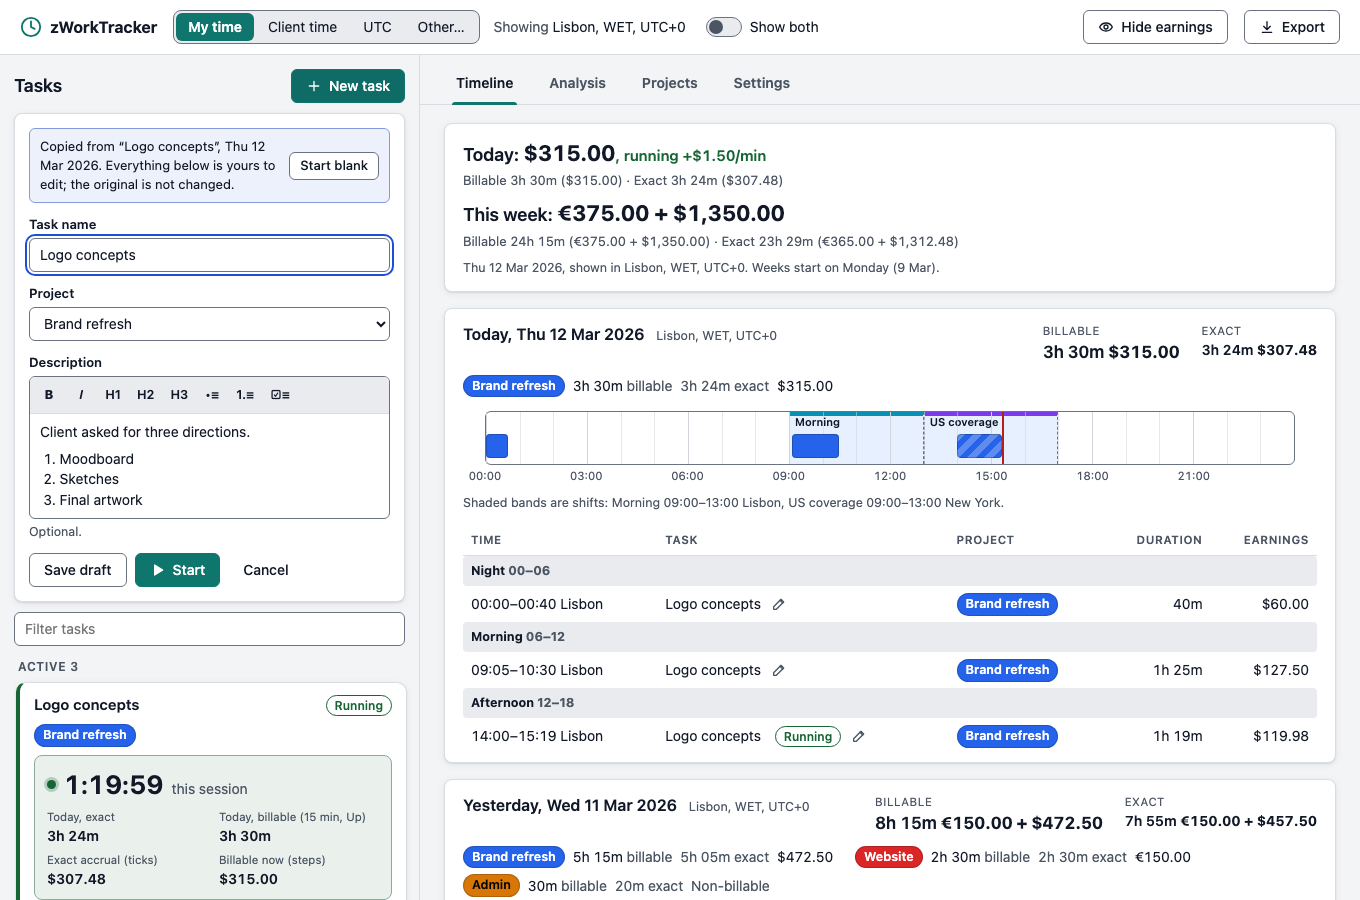
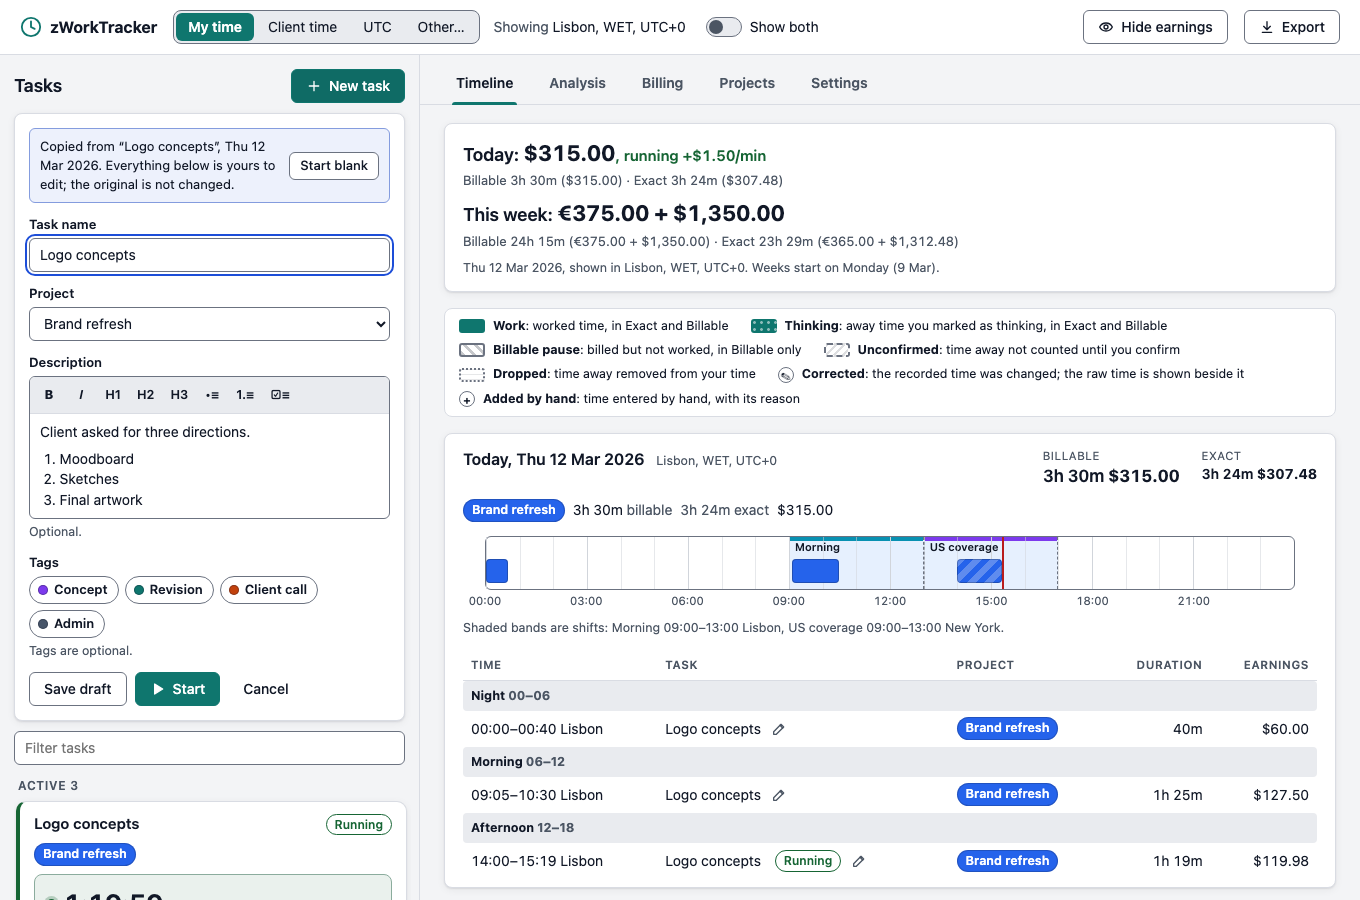
docs: document phase 2, reverse the sleep rule, and extend the native smoke test
Moves shipped items out of the Roadmap and refreshes the screenshots and sample export.
The native smoke test now drives phase 2 commands on the real backend.

diff --git a/src-tauri/crates/z-work-core/src/pdf.rs b/src-tauri/crates/z-work-core/src/pdf.rs
@@ -443,6 +443,9 @@ mod tests {
         assert!(b.starts_with(b"%PDF-"));
         assert!(contains(&b, b"America/New_York"));
         assert!(contains(&b, b"Total time"));
+        if let Ok(path) = std::env::var("ZWT_SAMPLE_PDF") {
+            std::fs::write(path, &b).unwrap();
+        }
     }
 
     #[test]

diff --git a/README.md b/README.md
@@ -6,7 +6,7 @@ A desktop app for Windows 11 that accounts for labor hours by project and task. 
 
 It runs locally. It makes no network calls and sends no telemetry. Data leaves the machine only if you choose a OneDrive or Google Drive folder for sync.
 
-Status: first build. It has been run and tested on macOS, and the Windows installer has been built, but **nothing has been run on real Windows yet**. See [Known limitations](#known-limitations).
+Status: phase 2 build. It has been run and tested on macOS, and the Windows installer has been built, but the only thing to run on Windows so far is a CI run of the test gates: **the app itself has never run on real Windows**, and that CI run predates phase 2. See [Known limitations](#known-limitations).
 
 ![Timeline](docs/images/timeline-light.png)
 
@@ -96,7 +96,20 @@ Only the tray's **Quit** really exits. On a real exit a running segment closes a
 
 If the app crashes, a heartbeat saved about every 30 seconds marks the last moment it was alive. At the next launch the open segment closes at that moment, the task is paused and a notice tells you, including that the next start asks for every field.
 
-If the computer sleeps while a task is running, the sleeping time counts as work, because the segment stays open. Pause before closing the lid.
+**Time away.** While a task runs, the app watches for gaps: the machine slept, the wall clock jumped by more than two minutes between checks, or nobody touched the keyboard or mouse for the idle limit (10 minutes by default; 0 turns idle detection off, but a sleep or clock jump is always noticed). A locked screen is noticed through idle time, so a lock shorter than the limit, or any lock with the limit at 0, isn't seen. When you return, the app asks what to do with the time:
+
+| Answer | Exact | Billable and earnings |
+|---|---|---|
+| No answer yet | Doesn't count | Doesn't count |
+| **Keep** | Counts | Counts |
+| **Drop** | Doesn't count | Doesn't count |
+| **Thinking** | Counts, reported separately | Counts, reported separately |
+
+Raw UTC timestamps stay as they were, whatever you answer. An absence in progress when a segment closes, whether by Pause, Stop, Quit or a crash, is recorded the same way. This replaces the first build's behaviour, where sleeping time counted as work.
+
+![The time-away dialog](docs/images/timeaway-dialog-light.png)
+
+**Reminders.** A notification tells you when a task has run a long time (4 hours by default) or is still running after your shift ended. Both can be turned off, and a reminder can be snoozed. Snoozing doesn't pause anything.
 
 ### Timeline
 
@@ -160,6 +173,58 @@ The default is **15 minutes, rounding up**. Choices are Off (exact), 1, 5, 6, 10
 - Continued tasks round separately, so a chain can round up more than once in a day. See [Tasks and subtasks](#tasks-and-subtasks).
 
 Totals show **Billable (rounded)** and **Exact**. Exact totals are the same in every zone. Billable totals can differ, because days fall differently: a segment crossing midnight in one zone is two rows there and one elsewhere. Pauses stay excluded from Exact. The rounding adjustment metric shows what rounding adds.
+
+### Corrections, manual entries and billable pauses
+
+You can add a manual entry for time the app didn't log, correct a segment's start and end, or void a segment and bring it back. Each asks for a reason where it helps and warns about overlaps. Nothing destroys the original: the logged UTC times stay in the file, the correction sits beside them, and the audit trail lists every change with when, what and why. A running segment can't be corrected, and neither can time on a billing summary until that summary is voided.
+
+A pause can be marked **billable** when you were still working, for example on a call. It counts in Billable and earnings, is rounded once together with that task-day's exact time, and is included in the rounding adjustment, but it never counts in Exact and is reported on its own. Time covered twice bills once: a pause never bills a span a segment or another pause already covers.
+
+![Corrections on a task](docs/images/task-corrections.png)
+
+### Subtask time
+
+A task-list item in a description can be made active. Exactly one is active at a time. Each segment belongs to the subtask active when it started; switching while running closes the segment and opens the next one, so task totals remain the sum of segments. Copying a task keeps subtask text, clears the ticks and carries no time. Removing the active item from the description clears the active subtask.
+
+![Subtasks with their time](docs/images/task-subtasks.png)
+
+### Tags and templates
+
+Tags have a name and a colour, and four starter tags come with the app. A warm start copies them; a cold start requires at least one, while any tag exists. Analysis breaks time down by tag. A template stores a task's name, description, project and tags, and creates an independent draft with unticked subtasks.
+
+### Colours
+
+Projects and tags share a colour picker: a saturation and brightness area, a hue slider, R, G and B fields from 0 to 255 and a hex field, all kept in step, with a live preview. It works by keyboard in every theme, and also offers curated swatches and your recently used colours. Any colour is allowed. Chip text picks black or white for readability, and you get a gentle warning, never a refusal, if a colour is close to another project's or hard to see on the current theme. The backend stores six-digit lowercase hex, such as `#1a2b3c`, and refuses anything else.
+
+![The colour picker](docs/images/color-picker.png)
+
+### Fixed-fee projects and budget alerts
+
+A project bills **hourly** or at a **fixed fee** in EUR or USD. A fixed-fee project earns the fee, not time at a rate, so hourly earnings stay empty, and Analysis shows its effective hourly rate: the fee divided by billable hours. Budgets warn at 80% and 100%, of hours or of the fixed fee, on screen and once per threshold as a system notification. A fee-based budget values time using the project's rate as a target rate, and says so when none is set.
+
+### Billing summaries
+
+**This is for your own guidance. It is not an invoice and not a tax document, and says so on the page and in its exports.**
+
+Pick a project and period to see unbilled closed time per task and day. **Create summary** freezes it into a summary with a reference such as `A-001` and marks that time billed. Tasks then show billed and unbilled time. Copy it or export it as CSV. Voiding a summary puts the time back to unbilled; its number isn't reused.
+
+![The Billing tab](docs/images/billing-light.png)
+
+Each device has its own prefix, which you can edit. Numbers count up per prefix across all devices. Two devices offline at once could still pick the same prefix and reference, so the app warns when it finds a shared prefix or a repeated reference.
+
+The preview tells you about time away you haven't answered yet. It's left out of the summary, and answering after that requires voiding the summary, so answer first. A partly billed task-day rounds again on its unbilled part, so it can round up twice. Time belongs to the day its segment started. A correction made on another device before the summary syncs still applies, while the frozen summary keeps its numbers.
+
+### Timesheet PDF
+
+A local PDF for a period, with or without prices, in the client's zone, with your logo (PNG) if you add one. It's built on this computer by a Rust library with no network access. It uses a built-in Latin font, so characters outside Windows-1252, such as Japanese or Greek, print as `?`. Only the Excel and CSV exports hold those characters as you typed them.
+
+### Quote helper
+
+Enter a job's name and tags to get an estimate from comparable past stopped tasks: a range and the number of tasks behind it. It's labelled as an estimate, and a low sample size is shown.
+
+### Backups
+
+The app writes a dated copy of its data once a day into a `backups` folder beside it, keeping the newest 30 by default; choose 1 to 365. These stay on this computer and are separate from sync. **Restore** in Settings first saves the current data as a safety copy, which retention never deletes, then replaces the data. A running task pauses first, and the next start counts as cold. Restoring the safety copy undoes a restore. This device's settings, such as sync folders, stay as they are. With sync on, newer records in your sync folders merge back in at the next sync, so to go back in time for good, turn sync off first.
 
 ### Earnings and Hide earnings
 
@@ -241,6 +306,8 @@ The full list with formulas is in the app's searchable Metrics glossary (source:
 Definitions worth knowing:
 
 - **A pause** is the gap between two consecutive segments of the same task, or from a task's last segment to its Stop, that begins and ends on the same calendar day in the zone you're viewing. Gaps crossing midnight, such as overnight or weekend breaks, aren't pauses and are excluded from every figure. A pause belongs to the day it began, and a still-paused task's open gap isn't counted. Pauses of different tasks add up, so a day can show more paused time than worked time.
+- **Exact** leaves out time away that's unanswered or dropped, and billable pauses. **Billable** adds billable pauses and rounds once per task-day. The **rounding adjustment** is Billable minus Exact, with billable pauses shown separately. Thinking counts in both, shown separately.
+- **Effective hourly rate** on a fixed-fee project is the fee divided by Billable hours. **Billed** and **unbilled** seconds are the time on and off a live billing summary. Tag analytics count a task's time under each of its tags, so tag totals can add up to more than the total.
 - A band or shift filter hides Billable figures, because rounding works on whole task-days.
 - Client working hours apply Monday to Friday.
 - A forecast is a straight-line projection and needs 7 or more days, 20% of the period elapsed and 2 active days. Budget pace uses the last 28 days.
@@ -254,6 +321,8 @@ Definitions worth knowing:
 | **macOS** | `~/Library/Application Support/com.rustcircle.zworktracker/` |
 | **Main file** | `z-work-data.json`: versioned JSON with timestamps in UTC (`2026-03-08T07:00:00Z`) |
 | **Backup** | `z-work-data.json.bak`: the previous good version |
+| **Dated backups** | `backups/`: one copy a day, plus safety copies made before a restore |
+| **Before a migration** | `z-work-data.v1.json`: the store as it was before an upgrade |
 | **Damaged files** | Kept as `z-work-data.corrupt-<time>.json` |
 
 Saves are atomic: a temporary file, then a rename. If the main file is damaged the app restores from the backup and tells you. If both are damaged it keeps both copies, starts empty and says so. A file from a newer app version is refused and left untouched. Data is never silently wiped.
@@ -336,9 +405,9 @@ Billing and time zone rules exist in both Rust (for exports and the tray) and TS
 
 ### Data model and schema migration
 
-Two versions exist: `version` in the local file and `schemaVersion` in device files, both 1. To change the schema, raise `SCHEMA_VERSION` and add a step to `migrate()` in `persist.rs`. Optional fields need no step, because every synced record defaults missing ones. An old build skips a newer device file and never overwrites it.
+Two versions exist: `version` in the local file and `schemaVersion` in device files, both 2. Opening a version 1 store keeps a copy as `z-work-data.v1.json`, then upgrades it; a test reads a real phase 1 file. To change the schema, raise `SCHEMA_VERSION` and add a step to `migrate()` in `persist.rs`. Optional fields need no step, because every synced record defaults missing ones. An old build skips a newer device file, warns "Update this device" and never overwrites it. Task lists from version 1 get subtask ids derived from the task id and position, so every device derives the same ones without a new edit stamp.
 
-The synced state is a set of records with stable ids, merged by taking the maximum under a total order. Property tests check that the merge is idempotent, commutative and associative.
+The synced state is a set of records with stable ids, merged by taking the maximum under a total order. Property tests check that the merge is idempotent, commutative and associative, for time away, billable pauses, tags, templates, summaries, prefixes and the audit log too. Corrections, time away and billable pauses are overlays on raw segments, and `pieces.rs` turns them into the pieces every report reads. A synced file is untrusted: `validate.rs` refuses out-of-range times, amounts and references before a merge.
 
 ### Security model
 
@@ -429,7 +498,9 @@ None of this has been run yet. Please check on a real Windows 11 PC:
 | "Windows protected your PC" | The installer is unsigned. Choose **More info**, then **Run anyway**. |
 | Blank window or WebView2 message | Run Windows Update, or reinstall the WebView2 Runtime from Microsoft. Your data is safe. |
 | The app seems gone after closing | It's in the tray; check the overflow arrow. Only tray **Quit** exits. |
-| Time kept running overnight | The app was hidden or the PC slept with a task running. Pause first. |
+| Time kept running overnight | The app asks about a sleep or idle time when you return, and it counts nowhere until you answer. Answer **Drop**, or correct the segment. |
+| A summary won't let me answer about time away | That segment is on a billing summary. Void the summary, answer, then create it again. |
+| A PDF shows `?` | The PDF's built-in font covers Latin text only. Use the Excel or CSV export for other scripts. |
 | Sync folder not detected | Use **Choose another folder**. Only common "My Drive" language variants are detected. |
 | A sync folder shows an error | Check the desktop client is running and the drive is connected. Local data and other folders are unaffected. |
 | "Written to folder" but another PC has no data | The desktop client may still be uploading. |
@@ -444,6 +515,7 @@ None of this has been run yet. Please check on a real Windows 11 PC:
 
 **Verified only on macOS or against a mock.**
 
+- Every phase 2 screen is tested against the mock, which reimplements the backend's rules in TypeScript and can drift from them. The native smoke script runs time away, manual entries, corrections, billing, the PDF, tag colours and backup restore against the real backend by calling its commands, without clicking those screens. The real file dialogs and clipboard weren't exercised.
 - Warm copy, cold form, cold Resume and inline editing UI are tested against the mock. The native smoke script checks the backend rules and the tray route against the real backend.
 - Real backend, webview and exit paths were tested on macOS with the native smoke script, which doesn't click the real tray icon. Tray icon appearance is unverified.
 - The real OneDrive and Google Drive clients have not been exercised. Detection is tested with an injected environment.
@@ -454,7 +526,13 @@ None of this has been run yet. Please check on a real Windows 11 PC:
 - OS shutdown relies on the app's exit event, which is unverified on Windows; if it doesn't fire, heartbeat recovery closes the segment within about 30 seconds of the real time.
 - Mica isn't used, so it can't wash out the themes.
 - Google Drive detection scans drive letters and common folder names and doesn't read the DriveFS registry. Use the picker otherwise.
-- Time spent asleep counts as running time.
+- A locked screen is noticed only through idle time; there's no separate lock signal. A lock shorter than the idle limit counts as work.
+- Idle reading (`user-idle`) has not run on Windows. After a wake it could report idle time spanning the sleep; the code clamps that, tested with injected values only.
+- The reminder and budget notifications come from the system's notification service, not run on Windows.
+- A restore with sync on merges newer records back, and the app warns about that.
+- The PDF prints characters outside Windows-1252 as `?`.
+- Audit entries for billable pauses name no task, so a task's history matches them by time.
+- A correction made on another device before a summary syncs lands on billed time; the summary keeps its frozen numbers.
 - At a Windows shutdown or sign-out, an edit typed in the last moment before the autosave may be lost: the page gets no save signal on that path. Tray Quit and hiding the window do flush edits, after a 300 ms wait.
 - Shift analysis can't revert a single version; retire or delete instead.
 - Heatmap and calendar cells have no keyboard drill-down; their View data tables hold the same numbers.
@@ -464,23 +542,7 @@ None of this has been run yet. Please check on a real Windows 11 PC:
 
 ## Roadmap
 
-Approved for phase 2. **None of this is built yet.**
-
-1. Manual time entry and corrections, with an audit trail
-2. Idle detection: keep, drop or count as thinking time
-3. "Still working" pauses that can be marked billable
-4. Forgotten timer reminders
-5. Client-ready timesheet PDF
-6. Billing summary for your own guidance (not a tax document), with per-PC reference numbers and billed marks
-7. Budget alerts at 80% and 100%, including fixed fees
-8. Task templates
-9. Subtask checkboxes with their own tracked time
-10. Tags with analytics
-11. Effective hourly rate on fixed-fee projects
-12. Quote helper from similar past projects
-13. Automatic dated backups with self-service restore
-
-After that, a performance pass with measurements on its own branch.
+The approved phase 2 list is built, and is described in the [User guide](#user-guide). Next is a performance pass with measurements, on its own branch.
 
 ## Third-party data licences
 

diff --git a/THIRD_PARTY_NOTICES.md b/THIRD_PARTY_NOTICES.md
@@ -27,7 +27,7 @@ All boundary lookups go through one file, `src/features/zones/geo.ts`, and the m
 
 ## Libraries
 
-**Rust (shipped):** Tauri and its plugins, chrono, chrono-tz, rust_xlsxwriter, serde and their dependencies, under MIT, Apache-2.0, BSD-3-Clause, ISC, Zlib, Unlicense, MPL-2.0 and Unicode-3.0, each as declared by the crate.
+**Rust (shipped):** Tauri and its plugins, chrono, chrono-tz, rust_xlsxwriter, pdf-writer, png, miniz_oxide, user-idle, serde and their dependencies, under MIT, Apache-2.0, BSD-3-Clause, ISC, Zlib, Unlicense, MPL-2.0 and Unicode-3.0, each as declared by the crate.
 
 **JavaScript (shipped):** React, TipTap, ProseMirror, `@tauri-apps/api`, `topojson-client` and their dependencies, under MIT, ISC, Apache-2.0 OR MIT and CC0-1.0.
 
